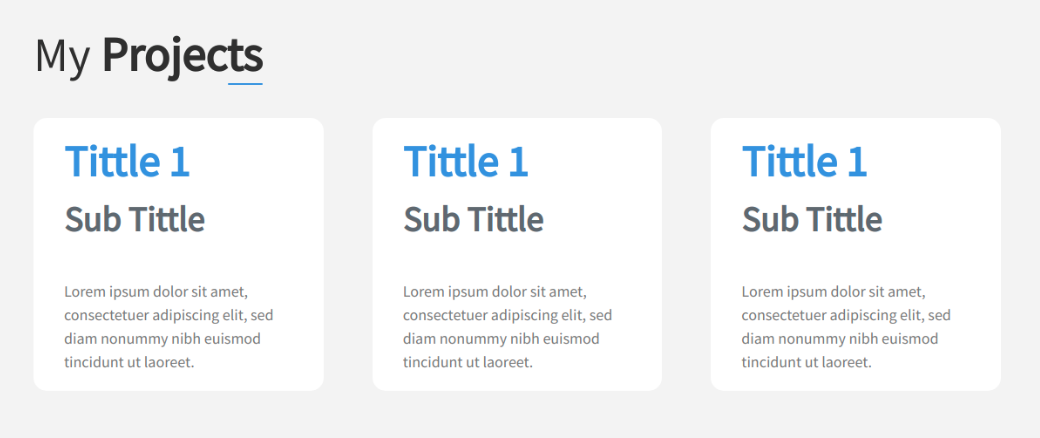
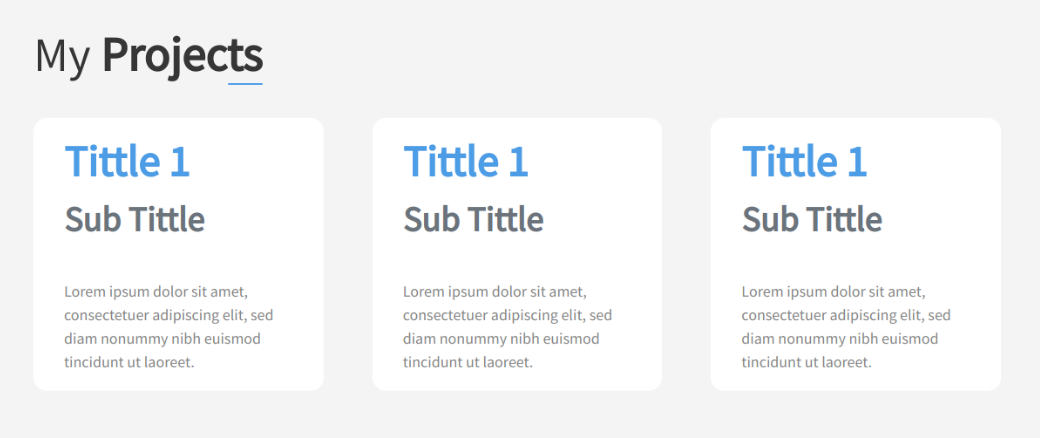
assignment4

Changed region(s): [[0.3692, 0.3265, 0.5231, 0.4155], [0.0615, 0.3265, 0.1846, 0.4155], [0.7077, 0.3265, 0.8308, 0.4155]]

diff --git a/assignments/assignment-4/assignment4.html b/assignments/assignment-4/assignment4.html
@@ -1,0 +1,89 @@
+<!DOCTYPE html>
+<html>
+  <head>
+    <title>Assignment-4</title>
+    <meta charset="utf-8" />
+    <link rel="stylesheet" type="text/css" href="assignment4.css" />
+  </head>
+
+  <body>
+    <p class="size">My <span class="bold">Hobb</span><span class="underline bold">ies</span></p>
+    <ul type="none">
+      <li><img class="alignment"
+           src="../../static/Hobbies/open-book/open-book.png"
+           height=40px;
+           width=40px;
+           alt="book"><span class="hobby">Reading</span></li>
+      <li><img class="alignment"
+           src="../../static/Hobbies/travelling/Group 350.png"
+           height=40px;
+           width=40px;
+           alt="book"><span class="hobby">Travelling</span></li>
+      <li><img class="alignment"
+           src="../../static/Hobbies/music-player/music-player.png"
+           height=40px;
+           width=40px;
+           alt="book"><span class="hobby">Music</span></li>
+      <li><img class="alignment"
+           src="../../static/Hobbies/swimming/swimming.png"
+           height=40px;
+           width=40px;
+           alt="book"><span class="hobby">Swimming</span></li>
+      <li><img class="alignment"
+           src="../../static/Hobbies/cricket-player/cricket-player.png"
+           height=40px;
+           width=40px;
+           alt="book"><span class="hobby">Cricket</span></li>
+    </ul>
+    <!--<div class="container">-->
+    <!--  <div class="hobbies">-->
+    <!--    <span class="proj">My </span><span class="proj bold">Hobb</span><span class="proj bold dec">ies</span>-->
+    <!--  </div>-->
+    <!--  <div class="hobbies">-->
+        <!--<img class="vertical"-->
+        <!--   src="../../static/Hobbies/open-book/open-book.png"-->
+        <!--   height=50px;-->
+        <!--   width=50px;-->
+        <!--   alt="book"-->
+    <!--       >-->
+    <!--       <span class="font vertical">Reading</span>-->
+    <!--  </div>-->
+    <!--  <div class="hobbies">-->
+    <!--       <img class="vertical"-->
+    <!--       src="../../static/Hobbies/travelling/Group 350.png"-->
+    <!--       height=50px;-->
+    <!--       width=50px;-->
+    <!--       alt="book"-->
+    <!--      >-->
+    <!--      <span class="font vertical">Travelling</span>-->
+    <!--  </div>-->
+    <!--  <div class="hobbies">-->
+    <!--       <img class="vertical"-->
+    <!--       src="../../static/Hobbies/music-player/music-player.png"-->
+    <!--       height=50px;-->
+    <!--       width=50px;-->
+    <!--       alt="book"-->
+    <!--      >-->
+    <!--      <span class="font vertical">Music</span>-->
+    <!--  </div>-->
+    <!--  <div class="hobbies">-->
+    <!--       <img class="vertical"-->
+    <!--       src="../../static/Hobbies/swimming/swimming.png"-->
+    <!--       height=50px;-->
+    <!--       width=50px;-->
+    <!--       alt="book"-->
+    <!--      >-->
+    <!--      <span class="font vertical">Swimming</span>-->
+    <!--  </div>-->
+    <!--  <div class="hobbies">-->
+    <!--       <img class="vertical"-->
+    <!--       src="../../static/Hobbies/cricket-player/cricket-player.png"-->
+    <!--       height=50px;-->
+    <!--       width=50px;-->
+    <!--       alt="book"-->
+    <!--      >-->
+    <!--      <span class="font vertical">Cricket</span>-->
+    <!--  </div>-->
+    <!--  </div>-->
+  </body>
+</html>

diff --git a/assignments/assignment-3/assignment3.html b/assignments/assignment-3/assignment3.html
@@ -6,24 +6,26 @@
     <link rel="stylesheet" type="text/css" href="assignment3.css" />
   </head>
   <body>
+      <div class="container">
     <p class="proj end">My <span class="proj bol">Projec<span class=" proj dec bol">ts</span></span></p>
       <div class="box end ">
        <h1 class="head">Title 1</h1>
-       <h2>subtitle</h2>
+       <h2>Subtitle</h2>
        <p>Lorem ipsum dolor sit amet, consectetuer adipiscing elit,
            sed diam nonummy nibh euismod tincidunt ut laoreet.</p>
       </div>
      <div class="box end">
         <h1 class="head">Title 1</h1>
-       <h2>subtitle</h2>
+       <h2>Subtitle</h2>
        <p>Lorem ipsum dolor sit amet, consectetuer adipiscing elit,
            sed diam nonummy nibh euismod tincidunt ut laoreet.</p>
      </div>
     <div class="box">
        <h1 class="head">Title 1</h1>
-       <h2 class="sub">subtitle</h2>
+       <h2 class="sub">Subtitle</h2>
        <p>Lorem ipsum dolor sit amet, consectetuer adipiscing elit,
            sed diam nonummy nibh euismod tincidunt ut laoreet.</p>
+    </div>
     </div>
   </body>
 </html>

diff --git a/assignments/assignment-4/assignment4.css b/assignments/assignment-4/assignment4.css
@@ -1,0 +1,50 @@
+@import url('https://fonts.googleapis.com/css?family=Monofett|Monoton|Oswald|Lacquer&display=swap');
+.alignment{
+    vertical-align:middle; 
+}
+.hobby{
+    font-size:18px;
+    margin-left:20px;
+    font-family:"Oswald";
+    vertical-align:middle;
+}
+li{
+    margin-bottom:5%;
+}
+ul{
+    padding-left:3%;
+}
+.bold{
+    font-weight:bold;
+}
+.underline{
+  border-bottom:2px solid blue;  
+}
+.size{
+    font-size:25px;
+}
+/*.container{*/
+/*    width:45%;*/
+/*    height:100%;*/
+/*    background:white;*/
+/*    padding-left:7%;*/
+/*}*/
+/*.proj{*/
+/*    font-size:180%;*/
+/*}*/
+/*.dec{*/
+/*    border-bottom:2px solid rgb(30, 130, 255);*/
+/*}*/
+/*.bold{*/
+/*    font-weight:bold;*/
+/*}*/
+/*.hobbies{*/
+/*    margin-bottom:5%;*/
+/*}*/
+/*.vertical{*/
+/*    vertical-align:middle;*/
+/*}*/
+/*.font{*/
+/*    margin-left:3%;*/
+/*    font-size:180%;*/
+/*}*/

diff --git a/assignments/assignment-3/assignment3.css b/assignments/assignment-3/assignment3.css
@@ -1,12 +1,12 @@
 body{
+    background-color:#f5f5f5;
     padding-left:5%;
-    margin:0;
 }
 .proj{
     font-size:30px;
 }
 .dec{
-    border-bottom:1px solid blue;
+    border-bottom:1px solid rgb(30, 130, 255);
 }
 .bol{
     font-weight:bold;
@@ -20,7 +20,7 @@ body{
     padding-left:5%;
 }
 h1{
-    color:blue;
+    color:rgb(30, 130, 255);
     font-size:180%;
 }
 h2{

diff --git a/index.html b/index.html
@@ -15,7 +15,7 @@
               width=100;>
               <img 
               src="static/Hobbies/music-player/music-player.png"
-              alt="iB Hubs logo">
+              alt="iB Hubs logo">hi
          </div>
          <hr>
       <div>
